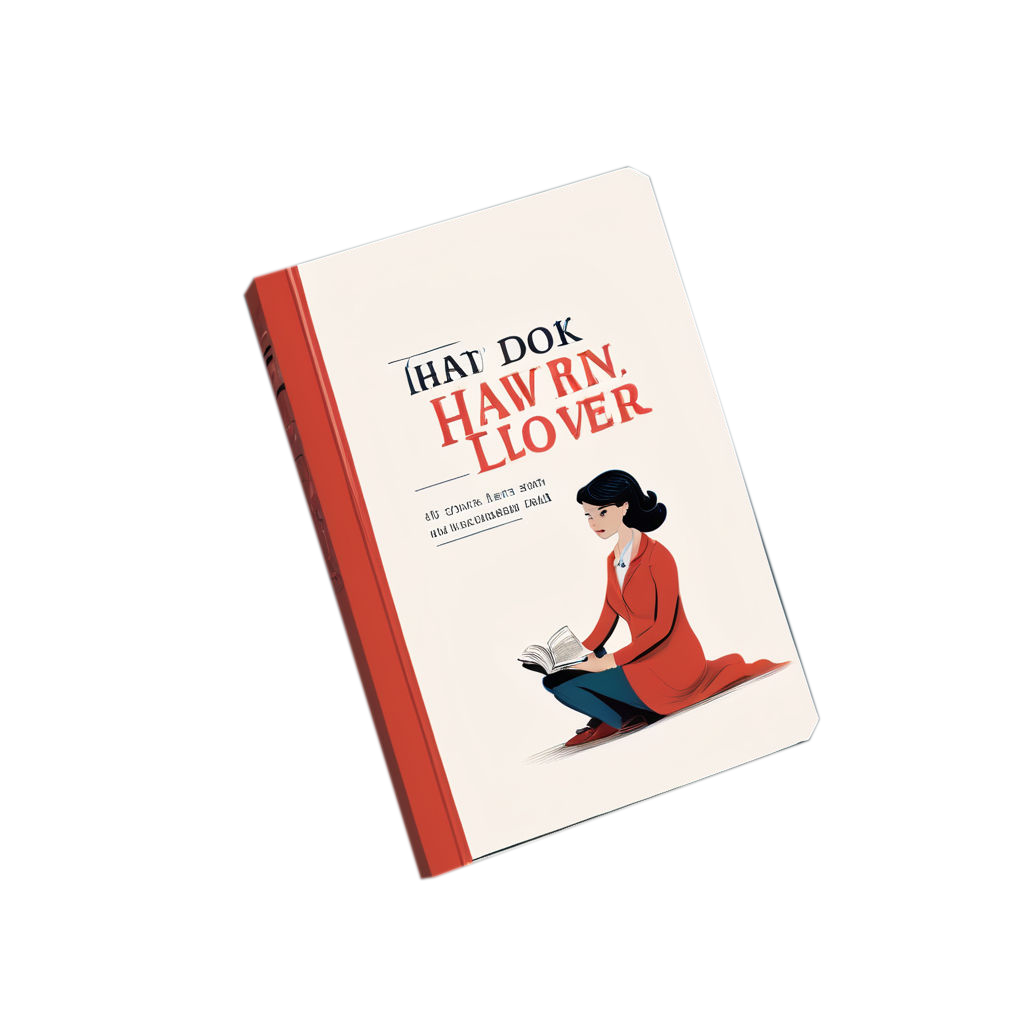
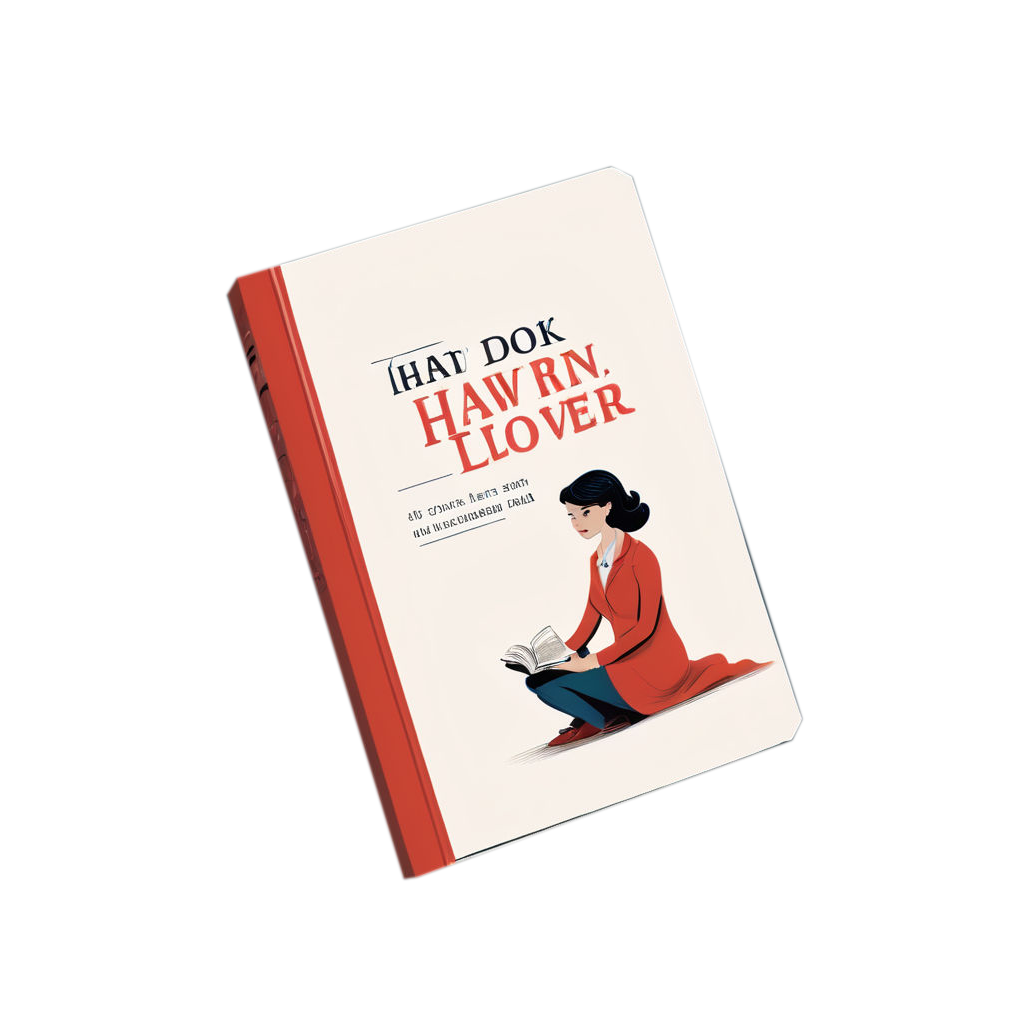
Adjust the book's image position

diff --git a/style.css b/style.css
@@ -542,7 +542,6 @@ header .navbar {
 	}
 
 	.product-section .section-content {
-		gap: 50px;
 		text-align: center;
 		padding: 30px 20px 20px;
 		flex-direction: column-reverse;
@@ -560,6 +559,7 @@ header .navbar {
 	}
 
 	.product-section .product-image-wrapper {
+		margin-top: 50px;
 		margin-right: 0;
 	}
 
